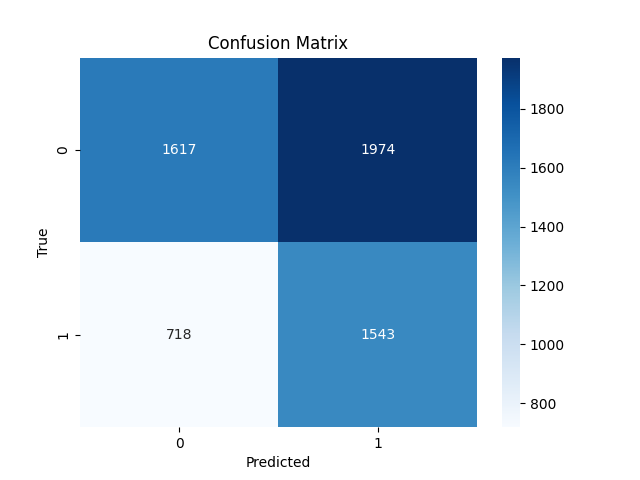
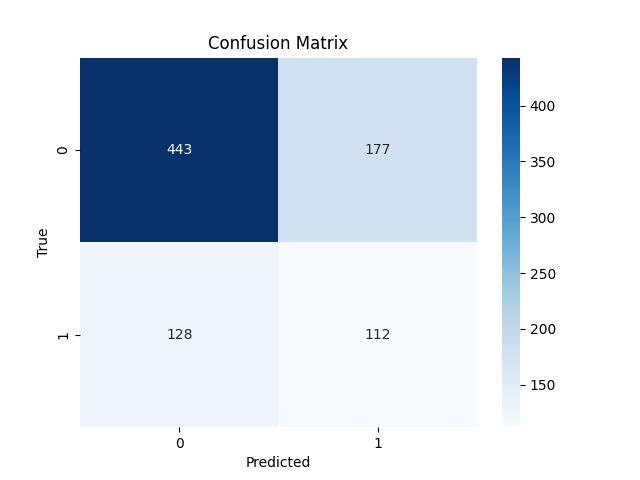
SVM correct confusion matrix

diff --git a/features.py b/features.py
@@ -43,7 +43,7 @@ def results(predictions, true_labels, file_path):
     plt.savefig(file_path + '_confusion_matrix.png')
     # Serialize and save the dictionary to a file
     plt.close()
-    
+
     with open(file_path + "_metrics.json", "a") as file:
         json.dump(metrics, file)
     
@@ -63,4 +63,5 @@ if __name__ == '__main__':
     SVM(olid_train_cleaned_df['text'], olid_train_cleaned_df['labels'], olid_test_cleaned_df['text'], 
         olid_test_cleaned_df['labels'], 'results\SVM_in_domain')
     
-    SVM(olid_train_cleaned_df['text'], olid_train_cleaned_df['labels'], hasoc['text'], hasoc['labels'], 'results\SVM_cross_domain') 
+    SVM(hasoc['text'], hasoc['labels'], olid_test_cleaned_df['text'], 
+        olid_test_cleaned_df['labels'], 'results\SVM_cross_domain') 
